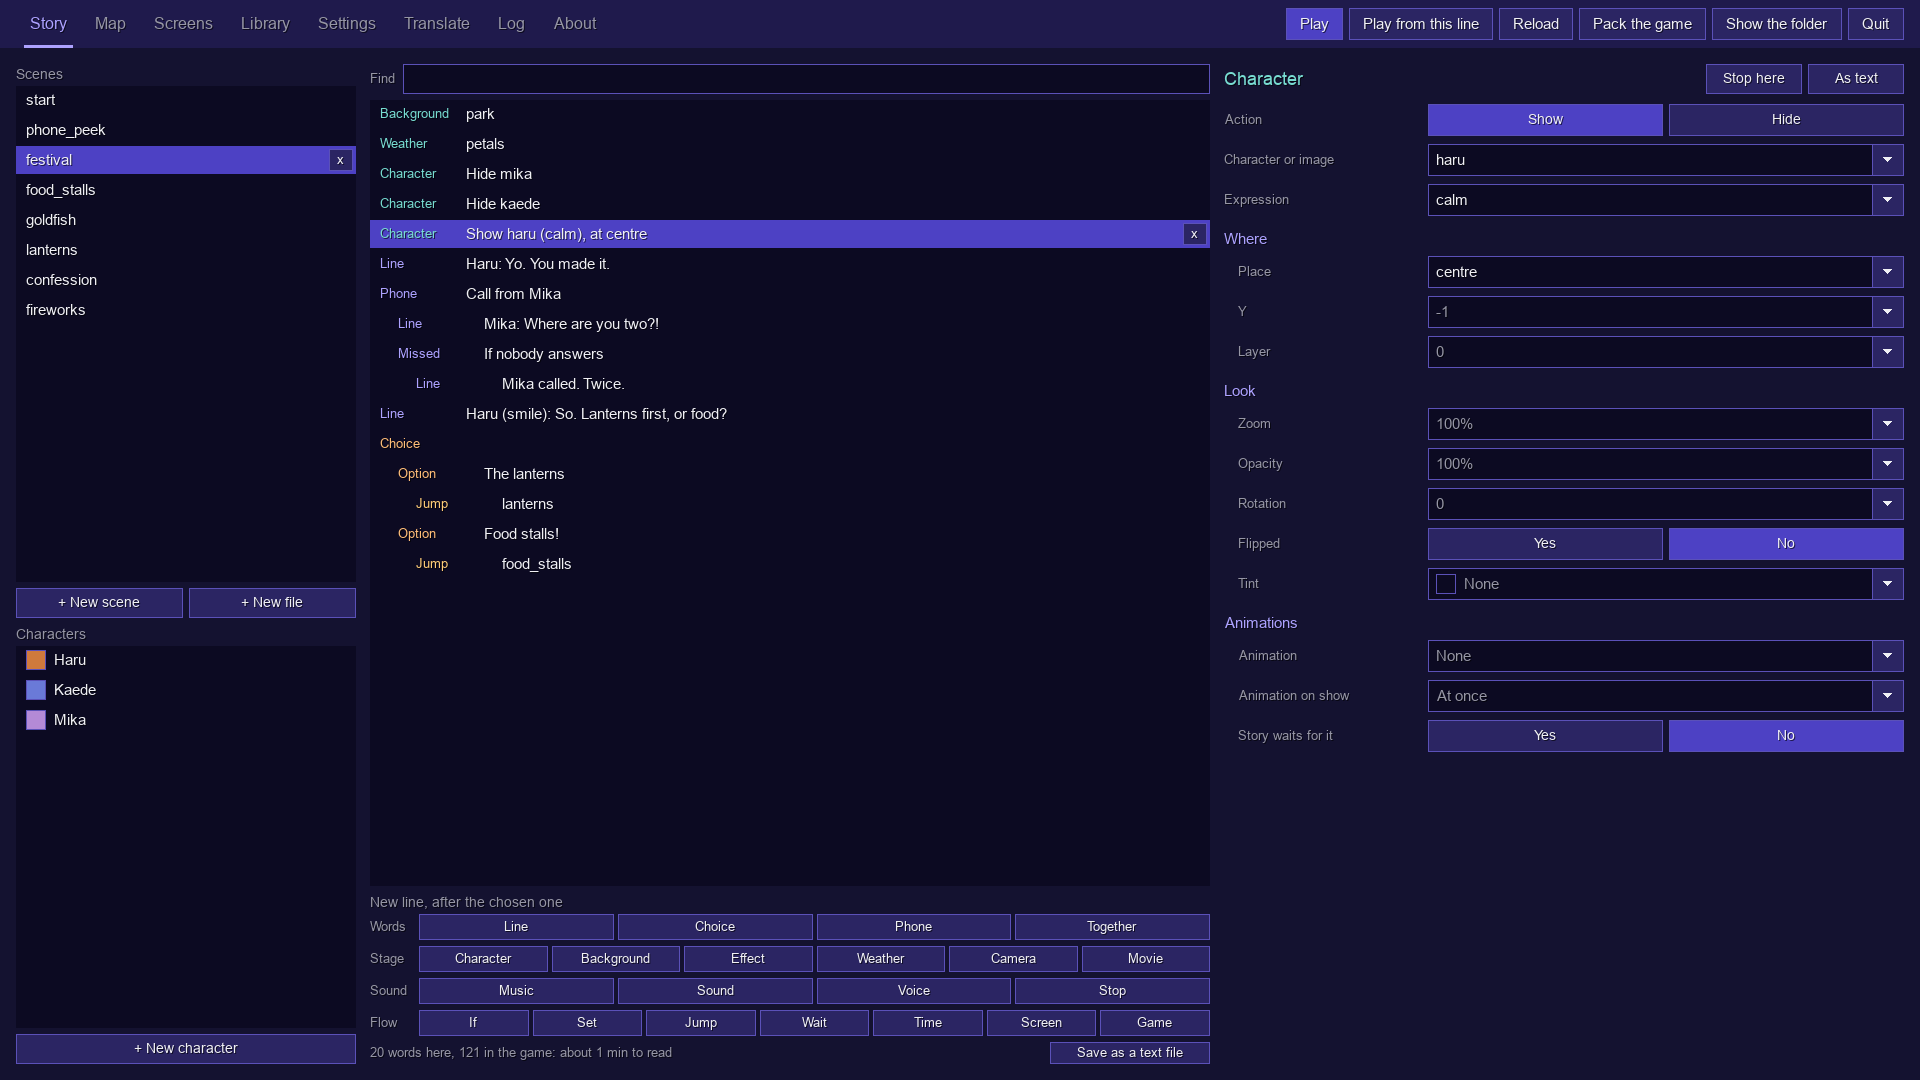
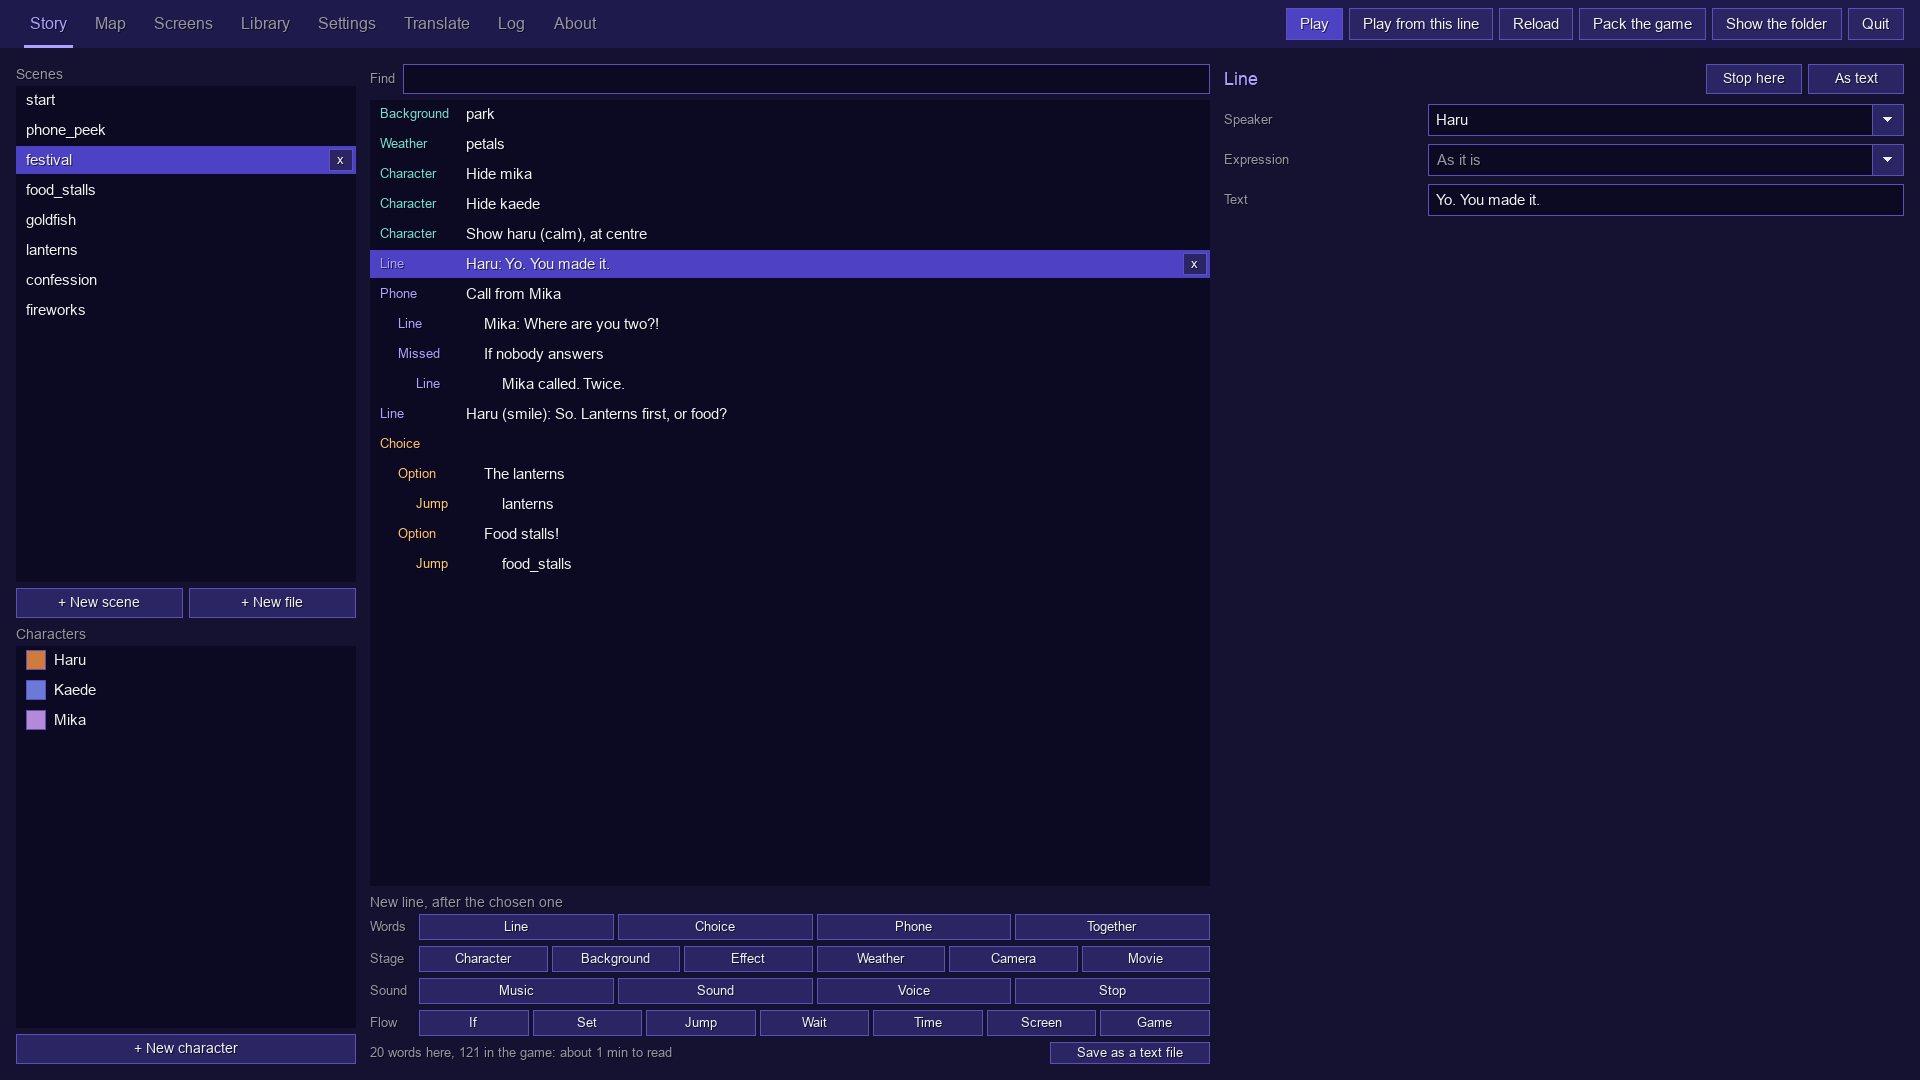
The README leads with how easy VNext is, with new clips and pictures [skip ci]
It opens with making a visual novel without code in one free app for Windows, macOS and Linux, and a Why it's easy
section: no code, one app, menus ready-made in one click, a finished game is two files, the same game on all three
systems, free. New clips of making a scene and designing a screen in the editor, a new recording of the phone chat,
two pictures of the game, and the Story tab's shot on a simple line's form. The developer tools aren't said to come
translated any more (they can be translated).

diff --git a/README.md b/README.md
@@ -1,12 +1,25 @@
 <h1 align="center"><img src=".github/banner.png" alt="VNext" width="800"></h1>
 
-**VNext is a free visual novel engine with the editor built right in, and your characters can even text and call the player.** Write your story as scenes and lines in simple forms, lay out your menus by dragging things around, and translate your game, all in one app. No programming is needed, and everything is also saved as plain, readable script files if you'd rather type.
+**Make a visual novel without writing a single line of code.** VNext is one free app for Windows, macOS and Linux: you write the story, design the menus and play the game in the same window, and your characters can even text and call the player.
 
-**[Download VNext](https://github.com/zsande/VNext/releases/latest)** for Windows, macOS or Linux. It's free, also for games you sell.
+**[Download VNext](https://github.com/zsande/VNext/releases/latest)**: one app, nothing else to install. It's free, also for games you sell.
 
-<p align="center"><img src=".github/phone.gif" width="320" alt="A chat in a VNext game: Kaede types a message to Haru, deletes it, sends “Hey.”, sees it read, and gets “k”, then an invitation to the summer festival"></p>
+<p align="center"><img src=".github/make-a-scene.gif" width="100%" alt="The VNext editor: a new line is added with a click, its words are typed in, Mika is picked as the speaker and “surprised” from pictures of her expressions, and Play from this line shows her saying it in the park"></p>
+
+## Why it's easy
+
+Most visual novel engines start with a scripting language to learn or a game engine to install. VNext starts with a window you click in.
+
+- **No code, ever.** A scene is a list of lines you add with a click: pick who speaks and their expression from pictures, then type what they say. Menus are pictures of the game you drag things around on. Everything is also saved as plain, readable script files, if you'd rather type.
+- **One app, nothing to set up.** The editor and the game are the same program: no game engine, plugins, Python or command line. Click any line and Play from this line shows it in the game; F10 takes you back to the editor.
+- **Menus come ready-made.** One click makes a title screen, a pause menu, saving and loading, settings, a history, a confirm question and a phone, already working and all yours to restyle.
+- **A finished game is two files.** Pack the game puts every picture, sound and line into one file, game.vnext (with licences.txt beside it). Put VNext next to it and that's your game; its players' saves go inside it too.
+- **Everywhere.** Make your game on Windows, macOS or Linux, and the same game.vnext plays on all three, with a mouse, a keyboard, a controller or a touch screen.
+- **Free.** Also for games you sell: no royalties, no account and no splash screen of ours (zlib licence).
 
 ## The phone
+
+<p align="center"><img src=".github/phone.gif" width="560" alt="A chat in a VNext game: next to a flustered Kaede, her phone shows her typing a message to Haru and deleting it, sending “hey”, Haru reading it and typing, his “k” and his invitation to the summer festival, her “...fine. if you insist.” and his heart"></p>
 
 Your characters text the player. Their messages type out as they write them, and they send images, stickers and voice messages, react, read what the player sends, and edit or delete what they just said. A choice in a chat shows its options on the phone, and the one picked goes out as the player's message. Calls ring until they're answered or declined, and when nobody picks up, the missed call has a story of its own. Players can text and call characters themselves, a badge on the textbox counts new messages, and controllers buzz when one comes. The phone has a lock screen with a passcode, wallpapers, apps, a clock, a date, signal and battery, all of which the story can change, and it's made of ordinary screen parts, so every bit of it can be restyled.
 
@@ -20,9 +33,13 @@ Your characters text the player. Their messages type out as they write them, and
 - **Sound**: music that fades in, out and from one song to the next and quietens while someone speaks, sounds and loops, and a voice file for every line, with the words keeping time with the voice.
 - **Screens**: a title screen, pause menu, saving and loading, settings, a history, a choice menu, questions, the phone, credits, a calendar and a box to type a name into, all ready-made and yours to restyle. Or build your own from parts (buttons, sliders, bars, text boxes, lists, scrolling boxes with scrollbars and fading edges), with styles, drag and drop, and animations made on a timeline.
 - **Extras**: a gallery, a music room, endings, achievements, tips, and a flowchart that takes players back to any choice.
-- **For players**: saves with pictures, autosave and quick save, rewind, skip, auto-play, a history that replays voices and goes back, and settings for text speed, text size, volumes, high contrast, text read aloud, language and every key, on keyboards, controllers and touch screens.
-- **Every language**: translations, with a spreadsheet for translators, right-to-left scripts, Japanese and Chinese line breaking, and the developer tools themselves in English, German, Spanish and Japanese.
-- **One file to share**: a finished game packs into game.vnext, which also keeps its players' saves and progress; with VNext next to it, it plays on Windows, macOS and Linux.
+- **For players**: saves with pictures, autosave and quick save, rewind, skip and auto-play (buttons on the textbox, and keys), a history that replays voices and goes back, and settings for text speed, text size, volumes, high contrast, text read aloud, language and every key and button. Every menu works with a mouse, a keyboard or a controller, with an on-screen keyboard for typing a name.
+- **Every language**: translations, with a spreadsheet for translators, right-to-left scripts, Japanese and Chinese line breaking, and the developer tools themselves can be translated too.
+
+<p align="center">
+  <img src=".github/game.png" width="48%" alt="A VNext game: Haru smiling in a park with falling petals, asking “So. Lanterns first, or food?”, with Skip, Auto and Phone buttons on the textbox">
+  <img src=".github/call.png" width="48%" alt="A VNext game: Mika calling the player, her incoming call on the phone with Decline and Answer, while Haru waits in the park">
+</p>
 
 ## The editor
 
@@ -35,8 +52,10 @@ Open VNext in developer mode and you get an editor that fits any window size, wi
 - **Settings** and **Translate**: the game's options, and its translations.
 - **Log**: what happened, where a click takes you to a line with a mistake. Mistakes are said in plain words, and every change can be undone.
 
+<p align="center"><img src=".github/design-a-screen.gif" width="100%" alt="The Screens tab: the title screen's New game button is dragged to a new place on the preview and renamed Start the story in its form, and Play shows the title screen with it there"></p>
+
 <p align="center">
-  <img src=".github/editor-story.png" width="48%" alt="The Story tab: a scene's lines, and the form of the chosen one, showing Haru at the centre of the park">
+  <img src=".github/editor-story.png" width="48%" alt="The Story tab: a scene's lines, and the form of the chosen one: Haru saying “Yo. You made it.”">
   <img src=".github/editor-chat.png" width="48%" alt="The Story tab on a chat: its phone lines, and the form of Haru's reaction">
   <img src=".github/editor-screens.png" width="48%" alt="The Screens tab: the phone's parts, the phone with an app button chosen, and the button's settings">
   <img src=".github/editor-map.png" width="48%" alt="The Map tab: eight scenes as boxes, with arrows from start to two endings">
